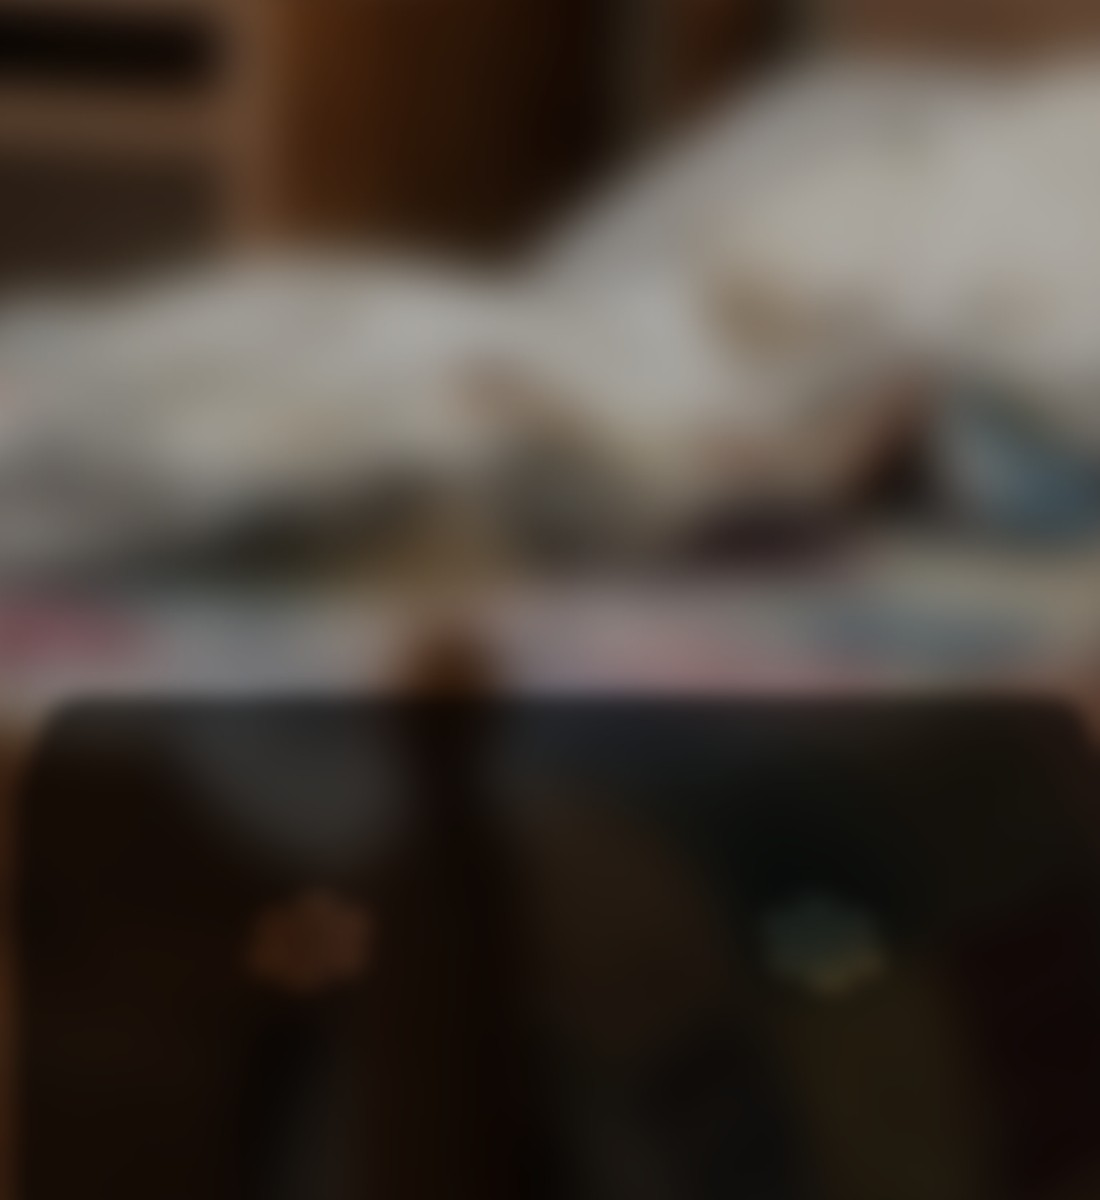
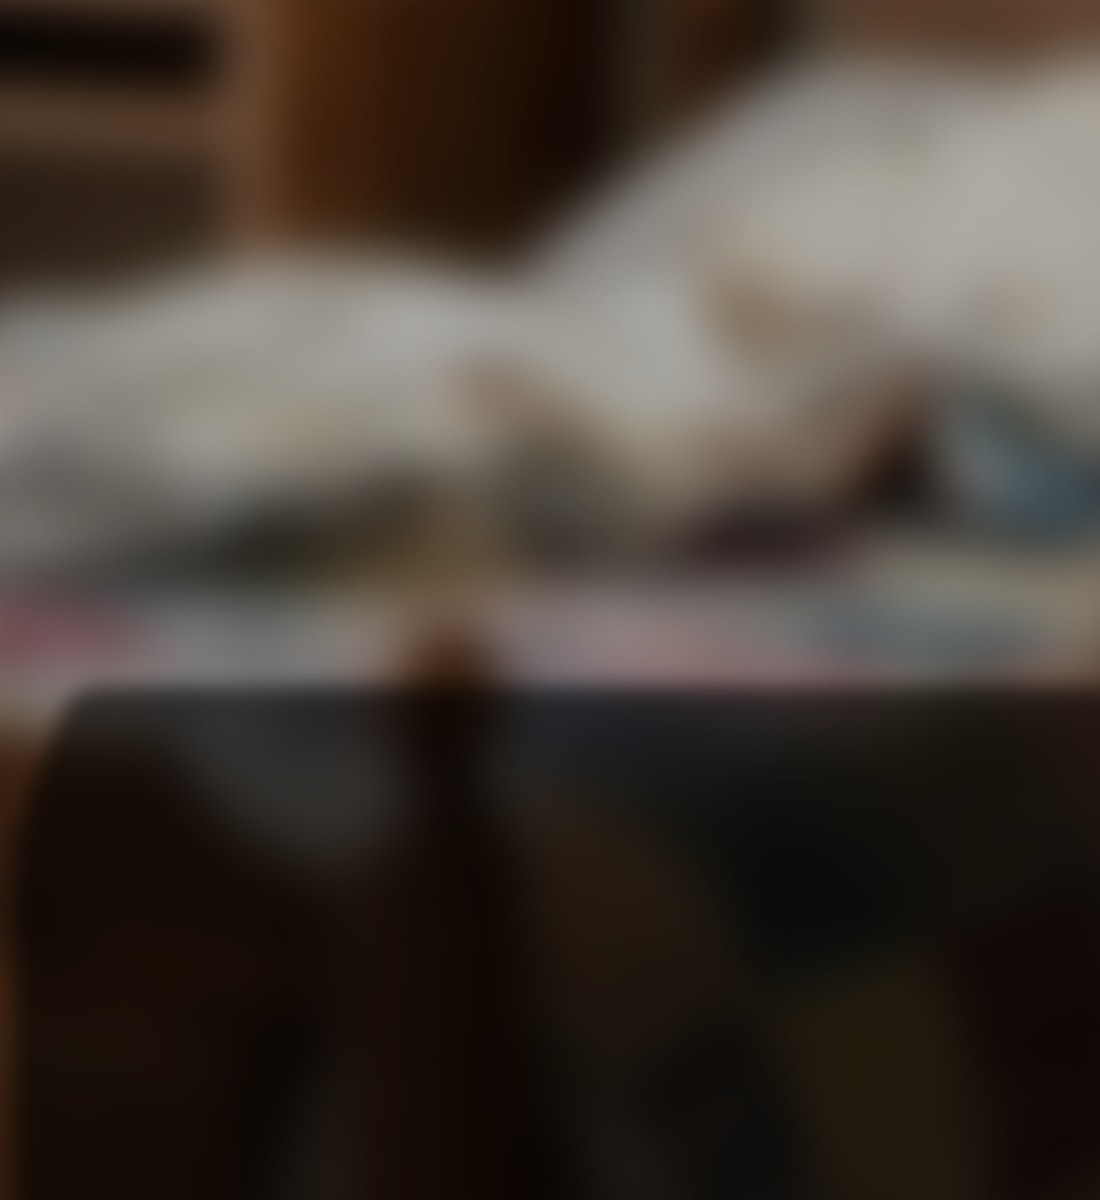
Close-up uses the Walkman's own tape; click the headphone plug to mute

diff --git a/src/cassette.rs b/src/cassette.rs
@@ -86,6 +86,11 @@ pub struct SkinSpec {
     pub window: (f32, f32, f32, f32),
 }
 
+/// The headphone plug: where a click lands on it, and where the picture of
+/// it pulled out goes (deck-photo pixels, the same on every colour).
+const PLUG_HIT: (f32, f32, f32, f32) = (668.0, 22.0, 720.0, 146.0);
+const UNPLUGGED: (f32, f32, f32, f32) = (610.0, 0.0, 820.0, 152.0);
+
 /// A latched key (Play while the tape plays) rests this far down, as a
 /// fraction of full travel: it catches a little above where a full press
 /// bottoms out, like a real deck's latch.
@@ -169,6 +174,9 @@ pub struct KeyArt {
 pub struct LoadedSkin {
     pub spec: &'static SkinSpec,
     pub body: image::Handle,
+    /// The patch of body.png around the headphone plug, with the plug
+    /// pulled up out of its jack (drawn at UNPLUGGED).
+    pub unplugged: image::Handle,
     /// body.png as embedded, for making the chewed-tape version of it.
     pub body_png: &'static [u8],
     /// Empty deck (open walkman) for the load + case-open animations.
@@ -256,6 +264,9 @@ pub fn load_skins() -> Vec<LoadedSkin> {
             LoadedSkin {
                 spec: $spec,
                 body: image::Handle::from_bytes(body_png.to_vec()),
+                unplugged: image::Handle::from_bytes(
+                    include_bytes!(concat!("../assets/skins/", $dir, "/unplugged.png")).to_vec(),
+                ),
                 body_png,
                 empty: image::Handle::from_bytes(
                     include_bytes!(concat!("../assets/skins/", $dir, "/empty.png")).to_vec(),
@@ -326,6 +337,8 @@ pub struct DeckState {
     pressed: Option<usize>,
     /// True while a press landed on the label strip (pending release).
     label_armed: bool,
+    /// True while a press landed on the headphone plug (pending release).
+    plug_armed: bool,
     /// How far each control has moved, 0.0 (rest) to 1.0 (fully pressed /
     /// slid). Eased toward its target each frame so keys travel.
     depth: [f32; MAX_BUTTONS],
@@ -353,6 +366,11 @@ pub struct CassetteScene<'a, Message> {
     pub on_toggle_mode: Message,
     /// Clicking the cassette's label strip opens the album's art screen.
     pub on_label_click: Message,
+    /// Clicking the headphone plug pulls it out (muting the music) or
+    /// pushes it back in.
+    pub on_plug: Message,
+    /// The headphone plug is pulled out.
+    pub unplugged: bool,
     pub skip_mode: bool,
     /// Fill the letterbox with the charcoal field. False when a backdrop sits
     /// behind the deck -- then leave it transparent so the backdrop shows.
@@ -461,6 +479,7 @@ impl<'a, Message: Clone> canvas::Program<Message, cosmic::Theme, cosmic::Rendere
             if let Event::Mouse(mouse::Event::ButtonReleased(mouse::Button::Left)) = event {
                 state.pressed = None;
                 state.label_armed = false;
+                state.plug_armed = false;
             }
             return None;
         }
@@ -489,8 +508,21 @@ impl<'a, Message: Clone> canvas::Program<Message, cosmic::Theme, cosmic::Rendere
                     state.label_armed = true;
                     return Some(Action::request_redraw().and_capture());
                 }
+                if map.rect(PLUG_HIT).contains(pos) {
+                    state.plug_armed = true;
+                    return Some(Action::request_redraw().and_capture());
+                }
             }
             Event::Mouse(mouse::Event::ButtonReleased(mouse::Button::Left)) => {
+                // Plug click: released on the plug after arming.
+                if state.plug_armed {
+                    state.plug_armed = false;
+                    let on_plug = cursor.position_in(bounds).is_some_and(|p| map.rect(PLUG_HIT).contains(p));
+                    if on_plug {
+                        return Some(Action::publish(self.on_plug.clone()).and_capture());
+                    }
+                    return Some(Action::request_redraw());
+                }
                 // Label click: released inside the label strip after arming.
                 if state.label_armed {
                     state.label_armed = false;
@@ -543,8 +575,11 @@ impl<'a, Message: Clone> canvas::Program<Message, cosmic::Theme, cosmic::Rendere
         }
         let map = SkinMap::new(self.skin.spec, bounds.size());
         if let Some(p) = cursor.position_in(bounds) {
-            // Transport buttons or the clickable label strip.
-            if self.hit(&map, p).is_some() || map.rect(self.skin.spec.label).contains(p) {
+            // Transport buttons, the clickable label strip, or the plug.
+            if self.hit(&map, p).is_some()
+                || map.rect(self.skin.spec.label).contains(p)
+                || map.rect(PLUG_HIT).contains(p)
+            {
                 return mouse::Interaction::Pointer;
             }
         }
@@ -604,6 +639,13 @@ impl<'a, Message: Clone> canvas::Program<Message, cosmic::Theme, cosmic::Rendere
                     f.draw_image(map.rect(eaten.tangle_rect), canvas::Image::new(eaten.tangle.clone()));
                 });
             }
+        }
+        if self.unplugged {
+            let map = SkinMap::new(spec, bounds.size());
+            frame.with_save(|f| {
+                f.translate(Vector::new(self.nudge.0 * map.s, self.nudge.1 * map.s));
+                f.draw_image(map.rect(UNPLUGGED), canvas::Image::new(self.skin.unplugged.clone()));
+            });
         }
 
         vec![frame.into_geometry()]

diff --git a/src/tape_eat.rs b/src/tape_eat.rs
@@ -303,26 +303,30 @@ pub fn eaten_body(png: &[u8], hubs: [(f32, f32); 2]) -> Option<::image::RgbaImag
 pub const FRAME_W: u32 = 1100;
 pub const FRAME_H: u32 = 1200;
 /// Where the cassette photo's corners land in the close-up.
-const CLOSE: [(f64, f64); 4] = [(33.161, 685.313), (1068.461, 685.313), (1339.611, 1350.863), (-237.989, 1350.863)];
+const CLOSE: [(f64, f64); 4] = [(57.697, 676.363), (1104.616, 676.363), (1385.498, 1316.251), (-192.403, 1316.251)];
 /// The left hub's centre in the close-up, and the size of its hole there.
-const HOLE_C: (f32, f32) = (296.443, 931.755);
-const HOLE_R: (f32, f32) = (55.227, 42.714);
+const HOLE_C: (f32, f32) = (294.332, 930.796);
+const HOLE_R: (f32, f32) = (55.670, 43.030);
 /// The pencil picture: where its bottom end sits, which columns are its body,
 /// and how far down into the hub it's pushed.
 const PENCIL_ER: (f32, f32) = (60.5, 1353.646);
 const PENCIL_COLS: (f32, f32) = (6.0, 115.0);
 const PENCIL_SINK: f32 = 301.6;
-/// The cassette photo: hub centres, the hub disc that turns, the tape packs.
-const HUB_L: (f32, f32) = (223.4, 233.3);
-const HUB_R: (f32, f32) = (538.3, 233.6);
-const HUB_DISC: f32 = 64.0;
-const PACK_FULL: f32 = 140.0;
-const PACK_EATEN: (f32, f32) = (104.0, 122.0);
-const LABEL_BOTTOM: f32 = 170.0;
+/// The cassette: the same one that's in the deck, cut from the deck photo
+/// and laid flat. Hub centres, the hub disc that turns, the tape packs, and
+/// the area the packs can show in (left, right, bottom).
+const TAPE_PNG: &[u8] = include_bytes!("../assets/egg/walkman_tape.png");
+const HUB_L: (f32, f32) = (207.0, 243.9);
+const HUB_R: (f32, f32) = (522.0, 242.6);
+const HUB_DISC: f32 = 80.0;
+const PACK_FULL: f32 = 124.1;
+const PACK_EATEN: (f32, f32) = (86.6, 101.0);
+const PACK_AREA: (u32, u32, u32) = (18, 757, 400);
+const LABEL_BOTTOM: f32 = 146.1;
 /// Where the song's label text goes on the cassette photo's white label
 /// strip (x0, y0, x1, y1): the same shape as the deck's label, so it reads
 /// the same.
-const LABEL_TEXT: (u32, u32, u32, u32) = (60, 56, 700, 164);
+const LABEL_TEXT: (u32, u32, u32, u32) = (32, 32, 729, 146);
 
 const BG_JPG: &[u8] = include_bytes!("../assets/egg/closeup_bg.jpg");
 const SHADE_PNG: &[u8] = include_bytes!("../assets/egg/closeup_shade.png");
@@ -404,8 +408,8 @@ pub struct Closeup {
 impl Closeup {
     /// `label`: the song's label laid flat (label::flat_strip), written onto
     /// the cassette's label strip so it's the same tape as in the deck.
-    pub fn new(sprite_png: &[u8], label: Option<&::image::RgbaImage>) -> Option<Closeup> {
-        let mut sprite = ::image::load_from_memory(sprite_png).ok()?.to_rgba8();
+    pub fn new(label: Option<&::image::RgbaImage>) -> Option<Closeup> {
+        let mut sprite = ::image::load_from_memory(TAPE_PNG).ok()?.to_rgba8();
         if let Some(label) = label {
             let (x0, y0, x1, y1) = LABEL_TEXT;
             let text = ::image::imageops::resize(label, x1 - x0, y1 - y0, ::image::imageops::FilterType::Triangle);
@@ -447,9 +451,9 @@ impl Closeup {
             if radius >= PACK_FULL - 0.5 {
                 continue;
             }
-            let x0 = (hub.0 - PACK_FULL - 8.0).max(73.0) as u32;
-            let x1 = (hub.0 + PACK_FULL + 8.0).min(689.0) as u32;
-            for y in (LABEL_BOTTOM as u32 + 2)..393 {
+            let x0 = ((hub.0 - PACK_FULL - 8.0) as u32).max(PACK_AREA.0);
+            let x1 = ((hub.0 + PACK_FULL + 8.0) as u32).min(PACK_AREA.1);
+            for y in (LABEL_BOTTOM as u32 + 2)..PACK_AREA.2.min(c.height()) {
                 for x in x0..=x1 {
                     let r = ((x as f32 - hub.0).powi(2) + (y as f32 - hub.1).powi(2)).sqrt();
                     let l = self.lum[(y * w + x) as usize];
@@ -808,7 +812,7 @@ mod tests {
     fn closeup_renders() {
         let strip = crate::label::flat_strip("Midnight Arcade", "The Cassette Kids", &crate::cassette::BELT);
         assert!(strip.is_some());
-        let c = Closeup::new(include_bytes!("../assets/cassette_sprite.png"), strip.as_ref()).expect("assets");
+        let c = Closeup::new(strip.as_ref()).expect("assets");
         let t = Instant::now();
         let f = c.render(0.5, 0.4);
         eprintln!("frame in {:?}", t.elapsed());

diff --git a/src/app.rs b/src/app.rs
@@ -204,6 +204,8 @@ pub enum Message {
     ToggleAbout,
     OpenRepo,
     ToggleBackdrop,
+    /// Click on the headphone plug: pull it out (music muted) or push it in.
+    TogglePlug,
 }
 
 pub struct App {
@@ -300,6 +302,8 @@ pub struct App {
     wind_resume: bool,
     /// FUNCT latched: FF/REW skip tracks instead of winding.
     skip_mode: bool,
+    /// The headphone plug is pulled out: the music is muted.
+    unplugged: bool,
     /// Brief correct-direction spool burst after a track skip: (dir, secs left).
     skip_anim: Option<(i8, f32)>,
     /// Watches the wind keys for the tape-eating extra.
@@ -898,6 +902,7 @@ impl Application for App {
             wind: None,
             wind_resume: false,
             skip_mode: false,
+            unplugged: false,
             skip_anim: None,
             egg_trigger: tape_eat::Trigger::default(),
             egg: None,
@@ -1631,8 +1636,22 @@ impl App {
 
             Message::SetVolume(v) => {
                 self.volume = v.clamp(0.0, 1.0);
-                let _ = self.audio_tx.send(AudioCmd::Volume(self.volume));
+                // Unplugged, the music stays silent; the new volume applies
+                // when the plug goes back in.
+                if !self.unplugged {
+                    let _ = self.audio_tx.send(AudioCmd::Volume(self.volume));
+                }
                 self.save_state();
+            }
+            Message::TogglePlug => {
+                self.unplugged = !self.unplugged;
+                let (cue, volume) = if self.unplugged {
+                    (audio::Sfx::PlugOut, 0.0)
+                } else {
+                    (audio::Sfx::PlugIn, self.volume)
+                };
+                let _ = self.audio_tx.send(AudioCmd::Sfx(cue));
+                let _ = self.audio_tx.send(AudioCmd::Volume(volume));
             }
 
             Message::WindStart(dir) => {
@@ -2059,6 +2078,8 @@ impl App {
             on_prev: Message::Prev,
             on_toggle_mode: Message::ToggleSkipMode,
             on_label_click: Message::LabelClicked,
+            on_plug: Message::TogglePlug,
+            unplugged: self.unplugged,
             skip_mode: self.skip_mode,
             // The charcoal page shows through the letterbox; covers too.
             fill_letterbox: false,
@@ -2522,7 +2543,7 @@ fn cover_backdrop(bytes: &[u8]) -> Option<cosmic::widget::image::Handle> {
 
 const CASE_T_PNG: &[u8] = include_bytes!("../assets/case_transparent.png");
 /// Empty-deck image + transparent cassette sprite for the load animation.
-pub(crate) const CASSETTE_SPRITE_PNG: &[u8] = include_bytes!("../assets/cassette_sprite.png");
+const CASSETTE_SPRITE_PNG: &[u8] = include_bytes!("../assets/cassette_sprite.png");
 /// Keyed open cassette-case sprite (green removed), for the case-open animation.
 const CASE_OPEN_PNG: &[u8] = include_bytes!("../assets/case_open.png");
 /// Extra bundled room backgrounds — drop PNGs in assets/ and list them here to
@@ -2665,7 +2686,7 @@ impl CloseupFeed {
         let latest = Arc::new(Mutex::new(Vec::new()));
         let out = latest.clone();
         let _ = std::thread::Builder::new().name("tape-eat".into()).spawn(move || {
-            let Some(closeup) = tape_eat::Closeup::new(CASSETTE_SPRITE_PNG, label.as_ref()) else {
+            let Some(closeup) = tape_eat::Closeup::new(label.as_ref()) else {
                 return;
             };
             // The first frame is ready before the cut.

diff --git a/src/audio.rs b/src/audio.rs
@@ -64,6 +64,10 @@ pub enum Sfx {
     TapeSlide,
     /// The deck's door springs open to let the tape out.
     EjectPop,
+    /// The headphone plug pulled out of its jack.
+    PlugOut,
+    /// The headphone plug pushed back in.
+    PlugIn,
     /// The deck chewing the tape.
     TapeCrunch,
     /// A pencil winding the slack back into the cassette.
@@ -96,6 +100,8 @@ const SFX_TAPE_LIFT: &[u8] = include_bytes!("../assets/sfx/tape_lift.flac");
 const SFX_TAPE_SLIDE: &[u8] = include_bytes!("../assets/sfx/tape_slide.flac");
 const SFX_EJECT_POP: &[u8] = include_bytes!("../assets/sfx/eject_pop.flac");
 const SFX_WIND_LOOP: &[u8] = include_bytes!("../assets/sfx/wind_loop.flac");
+const SFX_PLUG_OUT: &[u8] = include_bytes!("../assets/sfx/plug_out.flac");
+const SFX_PLUG_IN: &[u8] = include_bytes!("../assets/sfx/plug_in.flac");
 const SFX_TAPE_CRUNCH: &[u8] = include_bytes!("../assets/sfx/tape_crunch.flac");
 const SFX_PENCIL_WIND: &[u8] = include_bytes!("../assets/sfx/pencil_wind.flac");
 
@@ -442,6 +448,8 @@ struct SfxEngine {
     tape_lift: Option<Pcm>,
     tape_slide: Option<Pcm>,
     eject_pop: Option<Pcm>,
+    plug_out: Option<Pcm>,
+    plug_in: Option<Pcm>,
     tape_crunch: Option<Pcm>,
     pencil_wind: Option<Pcm>,
     wind: Option<Pcm>,
@@ -480,6 +488,8 @@ impl SfxEngine {
             tape_lift: load(SFX_TAPE_LIFT, None, "tape_lift"),
             tape_slide: load(SFX_TAPE_SLIDE, None, "tape_slide"),
             eject_pop: load(SFX_EJECT_POP, None, "eject_pop"),
+            plug_out: load(SFX_PLUG_OUT, None, "plug_out"),
+            plug_in: load(SFX_PLUG_IN, None, "plug_in"),
             tape_crunch: load(SFX_TAPE_CRUNCH, None, "tape_crunch"),
             pencil_wind: load(SFX_PENCIL_WIND, None, "pencil_wind"),
             wind: load(SFX_WIND_LOOP, Some(LOOP_XFADE_MS), "wind_loop"),
@@ -499,6 +509,8 @@ impl SfxEngine {
             Sfx::TapeLift => &self.tape_lift,
             Sfx::TapeSlide => &self.tape_slide,
             Sfx::EjectPop => &self.eject_pop,
+            Sfx::PlugOut => &self.plug_out,
+            Sfx::PlugIn => &self.plug_in,
             Sfx::TapeCrunch => &self.tape_crunch,
             Sfx::PencilWind => &self.pencil_wind,
         };

diff --git a/README.md b/README.md
@@ -173,6 +173,7 @@ Your choice is used on the rack, the J-card and the tape loading animation, and 
 - **Walkman:** cycles the five colours.
 - **Wallpaper:** fills the space around the deck with the album cover. Off unless you turn it on.
 - **Tape label:** click it to open that tape's J-card.
+- **Headphone plug:** click it to pull it out and mute the music. Click it again to plug it back in.
 - **Lyrics:** opens the lyric sheet for the song that's playing. Only shown when it has lyrics.
 - **Music Rack:** back to the shelf.
 - **About:** shows the version and a link to this page.
